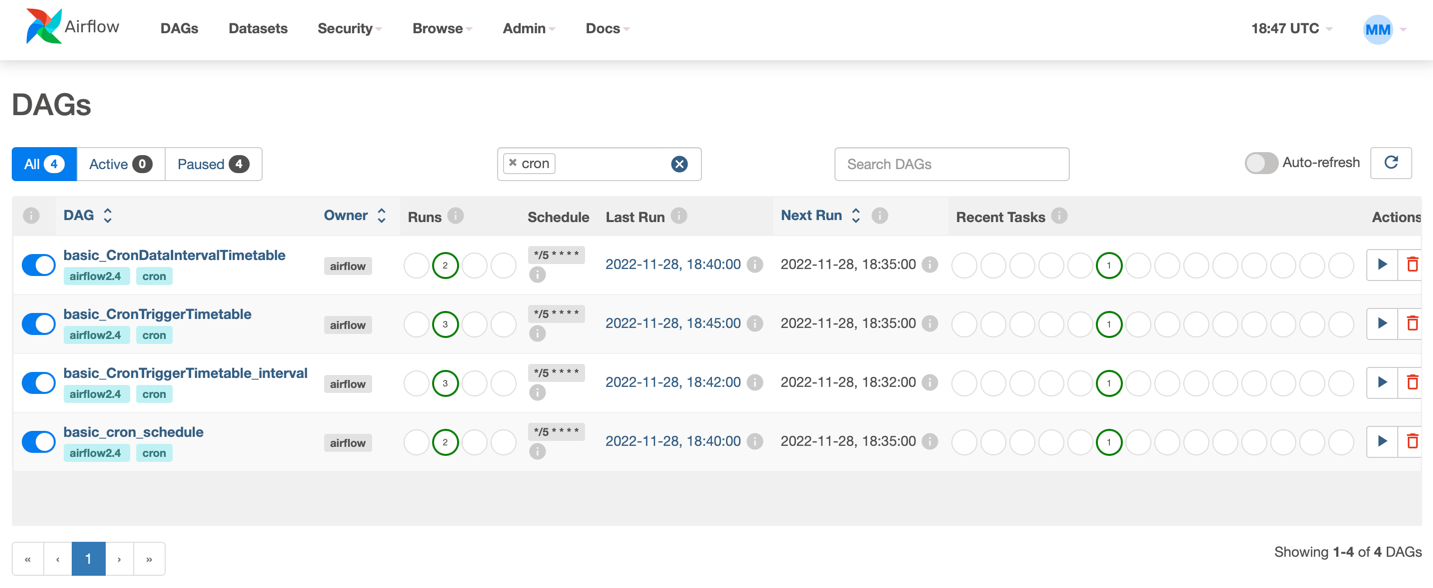
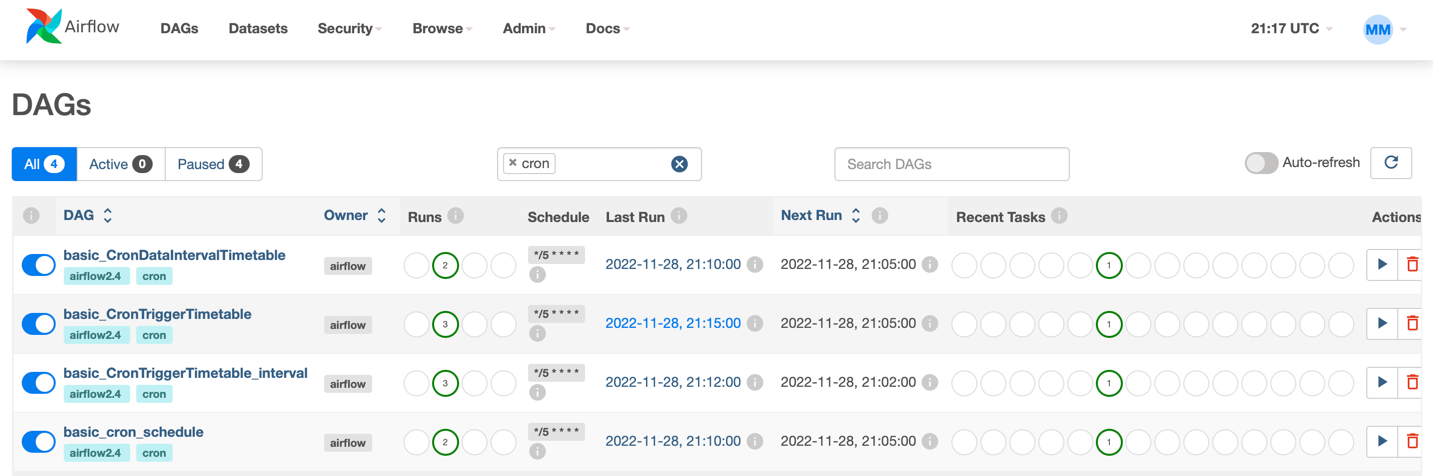
Rewording and rework after noticing UI issue

diff --git a/airflow-new-features/dags/feat24/Readme.md b/airflow-new-features/dags/feat24/Readme.md
@@ -196,8 +196,9 @@ the consumer to run;
 
 ## CronTriggerTimetable vs CronDataIntervalTimetable (varios cron schedules)
 
-**NOTE** I found the behavior of these very confusing,
-so please read the docs [first](https://airflow.apache.org/docs/apache-airflow/stable/concepts/timetable.html#the-time-when-a-dag-run-is-triggered).
+**NOTE** The Grid view on the UI causes confusion
+when pausing and unpausing DAGs, so please 
+[read the docs first](https://airflow.apache.org/docs/apache-airflow/stable/concepts/timetable.html#the-time-when-a-dag-run-is-triggered).
 
 For defining cron schedules, there are basically three 
 options:
@@ -214,17 +215,20 @@ All of the dags have the same cron expression:
 All of the DAGs have their start_date set to 
 15 minutes before `now()`. 
 
-I turned on the DAGs at 19:47 (local time) and this 
+I turned on the DAGs at **22:17** (local time) and this 
 happened:
+
 ![cron_dags](../../resources/cron_dags.png)
 
-As we can see, 2 of the DAGs started twice, and 2
-started three times (for backfill/catchup). 
+As we can see, 2 of the DAGs started twice, and 2 appear
+to have started three times (for backfill/catchup). 
+However, only `CronTriggerTimetable` was actually
+executed three times.
 
 Let's take a look at the DAGs.
 
-The two that started twice use the basic cron expression
-(basic_cron) and `CronDataIntervalTimetable` timetable 
+The first twouse the basic cron expression(basic_cron) 
+and `CronDataIntervalTimetable` timetable 
 (basic_CronDataIntervalTimetable). 
 Let's take a look at the start and end times of their 
 **first dag runs**:
@@ -232,48 +236,65 @@ Let's take a look at the start and end times of their
 
 | Property            | Time                     |
 |---------------------|--------------------------|
-| Data interval start | 2022-11-28, 18:35:00 UTC |
-| Data interval end   | 2022-11-28, 18:40:00 UTC |
+| Data interval start | 2022-11-28, 21:05:00 UTC |
+| Data interval end   | 2022-11-28, 21:10:00 UTC |
 
 
 2. CronDataIntervalTimetable 
 
 | Property            | Time                     |
 |---------------------|--------------------------|
-| Data interval start | 2022-11-28, 18:35:00 UTC |
-| Data interval end   | 2022-11-28, 18:40:00 UTC |
+| Data interval start | 2022-11-28, 21:05:00 UTC |
+| Data interval end   | 2022-11-28, 21:10:00 UTC |
 
 The start and intervals are the same, as are the
 logical dates (both are):
-2022-11-28 18:35:00.
+2022-11-28 21:05:00.
 
-Ok, now for the other two DAGs:
+Ok, now for the other CronTriggerTimetable DAGs
 1. CronTriggerTimetable
 
 | Property            | Time                     |
 |---------------------|--------------------------|
-| Data interval start | 2022-11-28, 18:35:00 UTC |
-| Data interval end   | 2022-11-28, 18:35:00 UTC |                          |
+| Data interval start | 2022-11-28, 21:05:00 UTC |
+| Data interval end   | 2022-11-28, 21:05:00 UTC |                          |
 
-2. CronTriggerTimetable with interval
+The logical date for the first run is also: 
+2022-11-28, 21:05:00 UTC.
+
+The CronTriggerTimetable with interval DAG looks
+like it started three times. It didn't, or at least
+the operators didn't. here is the breakdwon:
+1. actually executed
 
 | Property            | Time                     |
 |---------------------|--------------------------|
-| Data interval start | 2022-11-28, 18:32:00 UTC |
-| Data interval end   | 2022-11-28, 18:35:00 UTC |                          |
+| Data interval start | 2022-11-28, 21:07:00 UTC |
+| Data interval end   | 2022-11-28, 21:10:00 UTC |                          |
 
-We can see that the first DAG runs for these two runs
-are basically before the first two that we looked at
-(cron schedule and CronDataInterval).
+The logical date: 2022-11-28, 21:07:00 UTC.
+
+2. displayed but the operator wasn't executed
+
+| Property            | Time                     |
+|---------------------|--------------------------|
+| Data interval start | 2022-11-28, 21:02:00 UTC |
+| Data interval end   | 2022-11-28, 21:05:00 UTC |
+
+We can confirm that the first run is only displayed,
+but not executed by looking at the Graph view:
+
+![cron_dags_not_executed](../../resources/cron_dags_not_executed.png)
+
 
 What's interesting is the data interval for the 
 `basic_CronTriggerTimetable_interval` DAG. The interval
 set to the timetable is 3 minutes. So the data interval
 seems to have been moved by 3 minutes before the 
-18:35. 
+21:05. 
 
 The documentations says that if we define the interval
-for the CronTriggerTimetable, the data interval for 
+for the `CronTriggerTimetable`, the data interval for 
 a dag run will span from the _specified_trigger_time_ - 
 _interval_ to the _specified_interval_time_.
 In this case the data intervals for the 
@@ -281,7 +302,7 @@ In this case the data intervals for the
 1. start: every 5 minutes - 3 minutes
 2. end: every 5 minutes
 
-If we don't specify the interval the start and end
+If we don't specify the interval, the start and end
 data intervals will be the same (as can be seen 
 by the `basic_CronTriggerTimetable` DAG's runs).
 
@@ -290,8 +311,9 @@ The `CronDataIntervalTimetable` demonstrated by the
 the start and end time of the data interval always
 in the range of 5 minutes. More generally, this 
 timetable creates data intervals according to the
-interval between each cron trigger point. It also
-triggers the DAG to run at the end of each. 
+interval between each cron trigger point. **It also
+triggers the DAG to run at the end of each.** This
+also seems to be the case for the `basic_cron` example.
 
 On the other hand, the `CronTriggerTimetable` timetable
 triggers the DAG to run when the `data_interval_start`,
@@ -300,79 +322,108 @@ unless the interval is specified. If the interval is
 specified, the `logical_date` will be the same as the
 `data_interval_start`.
 
-For the next step, I paused the DAGs at 20:13 local
-time:
+## Pausing and unpausing the DAGs
+
+For this step, I paused the DAGs at **22:21** local
+time (21:21 UTC):
+
 ![cron_dags_paused](../../resources/cron_dags_paused.png)
 
-and waited some time. After about some 24 minutes, I
-unpaused the DAGs again. It was around 20:37 local
+and waited some time. After about some 30 minutes, I
+unpaused the DAGs again. It was around **22:51** local
 time, and the result was:
+
 ![cron_dags_unpaused](../../resources/cron_dags_unpaused.png)
 
 I immediately stopped the DAGs at this point to investigate
 the data intervals. 
+
 We can see that we got 2 new runs for the 
 `basic_cron_schedule` and `basic_CronDataIntervalTimetable`
-DAGs. However, we got 5 new runs for the 
-`basic_CronTriggerTimetable` and 
+DAGs. However, we got 6 (? **pay attention**) 
+new runs for the`basic_CronTriggerTimetable` and 
 `basic_CronTriggerTimetable_interval` DAGs. 
 
 The first new run for the schedule and `basic_CronDataIntervalTimetable`
 DAGs has:
-- data interval start: 2022-11-28, 19:25:00 UTC
-- data interval end: 2022-11-28, 19:30:00 UTC
+- data interval start: 2022-11-28, 21:40:00 UTC
+- data interval end: 2022-11-28, 21:45:00 UTC
 
 Their second run has:
-- data interval start: 2022-11-28, 19:30:00 UTC
-- data interval end: 2022-11-28, 19:35:00 UTC
+- data interval start: 2022-11-28, 21:45:00 UTC
+- data interval end: 2022-11-28, 21:50:00 UTC
+
+So, the DAG runs with start 21:20 up to start 21:35 are
+skipped. That's 4 DAG runs. 
 
 The other two DAGs that use `CronTriggerTimetable` 
-backfilled all of the missing runs between the pause
-and unpause. Let's look at their first and final data
-intervals.
+**seemed to have** backfilled all of the missing runs 
+between the pause and unpause. Indeed, you can
+select the DAG run on the grid view and get the details
+like start and end intervals (see next image below). 
 
-For the `basic_CronTriggerTimetable` DAG, 
-the first **new** DAG run has the following intervals:
-- data interval start: 2022-11-28, 19:15:00 UTC
-- data interval end: 2022-11-28, 19:15:00 UTC
+However, the operator was actually executed for only
+3 DAG runs. 
 
-and for the last one:
-- data interval start: 2022-11-28, 19:35:00 UTC
-- data interval end: 2022-11-28, 19:35:00 UTC
+![cron_dags_false_run](../../resources/cron_dags_false_run.png)
+
+If you look at the image above, there are 3 runs that
+executed the operator (the last 3). The other runs
+show the data interval as the DAG was ran, except,
+that the operator has a missing status. This means
+that the operator wasn't actually executed. The same
+is for `basic_CronTriggerTimetable`.
+
+For the `basic_CronTriggerTimetable`DAG, 
+the first **new actual** DAG run has the following 
+intervals:
+- data interval start: 2022-11-28, 21:40:00 UTC
+- data interval end: 2022-11-28, 21:40:00 UTC
+- logical date: 2022-11-28, 21:40:00 UTC
+
+and the last **actual** run:
+- data interval start: 2022-11-28, 21:50:00 UTC
+- data interval end: 2022-11-28, 21:50:00 UTC
+- logical date: 2022-11-28, 21:50:00 UTC
 
 The other one, the `basic_CronTriggerTimetable_interval`
-DAG, the first **new** DAG run has the following 
+DAG, the first **new actual** DAG run has the following 
 intervals:
-- data interval start: 2022-11-28, 19:12:00 UTC
-- data interval end: 2022-11-28, 19:15:00 UTC
+- data interval start: 2022-11-28, 21:37:00 UTC
+- data interval end: 2022-11-28, 21:40:00 UTC
+- logical date: 2022-11-28, 21:37:00 UTC
 
-and for the last DAG run:
-- data interval start: 2022-11-28, 19:32:00 UTC
-- data interval end: 2022-11-28, 19:35:00 UTC
+and for the last **actual** DAG run:
+- data interval start: 2022-11-28, 21:47:00 UTC
+- data interval end: 2022-11-28, 21:50:00 UTC
+- logical date: 2022-11-28, 21:47:00 UTC
 
-By these examples, I do not quite understand why
-the `basic_cron_schedule` and `CronDataIntervalTimetable`
-DAGs were scheduled twice after unpausing them.
 
-At first glance, this looks to ba in contradiction
-with the documentation found [here](https://airflow.apache.org/docs/apache-airflow/stable/concepts/timetable.html#the-time-when-a-dag-run-is-triggered). 
+What's interesting when using `CronTriggerTimetable`
+is that the operator's state isn't present in the
+grid view for several of the _backfill DAG runs. 
 
-I unpaused the DAGs once more around 21:07 local time.
-Here is the state before I unpaused the DAGs the second
-time:
+![cron_dags_missing_operator](../../resources/cron_dags_missing_operator.png)
 
-![cron_dags_before_second_unpause](../../resources/cron_dags_before_second_unpause.png)
+If we look at the details, the run id is:
+scheduled__2022-11-28T21:25:00+00:00.
 
-I again got 2 DAG runs for the `basic_cron_schedule` and `CronDataIntervalTimetable`
-DAGs. 
-The first new run for the schedule and `basic_CronDataIntervalTimetable`
-DAGs has:
-- data interval start: 2022-11-28, 19:55:00 UTC
-- data interval end: 2022-11-28, 20:00:00 UTC
+Let's take a look at the graph to confirm that the
+operator was not executed:
 
-Their second run has:
-- data interval start: 2022-11-28, 20:00:00 UTC
-- data interval end: 2022-11-28, 20:05:00 UTC
+![cron_dags_graph_view](../../resources/cron_dags_graph_view.png)
+
+## Summary
+
+Honestly, it is clear to me that the data intervals 
+are different between the two timetables and that
+the basic schedule acts as the 
+`CronDataIntervalTimetable`, but this behaviour with
+backfilling and pausing/unpausing DAGs is confusing.
+
+Again, I suggest that you read the [docs](https://airflow.apache.org/docs/apache-airflow/stable/concepts/timetable.html#the-time-when-a-dag-run-is-triggered).
+
+## The DAGs' definitions
 
 Here are the DAG definitions:
 ```python
